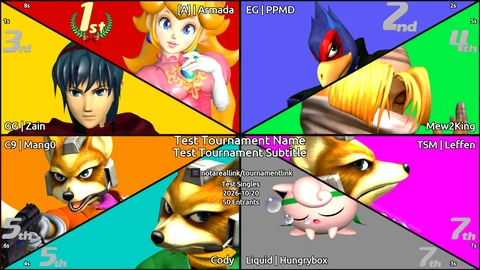
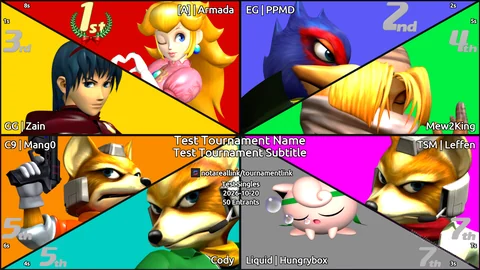
fixing radial podium template watermark

diff --git a/frontend/src/radialWatermark.ts b/frontend/src/radialWatermark.ts
@@ -1,12 +1,31 @@
-// Matches radial_watermark.py: choose contrast from the fully composed image.
-const singlesBox = { left: 1450, top: 787, right: 1686, bottom: 933 };
-const doublesBox = { left: 1562, top: 1034, right: 1902, bottom: 1062 };
+// Matches radial_watermark.py: contrast with the divider pixels under the text.
+const ray = { x0: 960, y0: 540, x1: 1920, y1: 1080 };
+const textLength = 270;
+// Singles and Doubles share one position near the corner.
+const end = 1050;
 
-export function drawRadialWatermark(context: CanvasRenderingContext2D, mask: HTMLImageElement, doubles: boolean) {
-  const box = doubles ? doublesBox : singlesBox;
-  const pixels = context.getImageData(box.left, box.top, box.right - box.left, box.bottom - box.top).data;
+function dividerSamples(): [number, number][] {
+  const length = Math.hypot(ray.x1 - ray.x0, ray.y1 - ray.y0);
+  const rayX = (distance: number) => ray.x0 + (ray.x1 - ray.x0) * distance / length;
+  const samples: [number, number][] = [];
+  for (let x = Math.floor(rayX(end - textLength)); x <= Math.floor(rayX(end)); x += 1) {
+    const y = Math.floor(ray.y0 + (x - ray.x0) * (ray.y1 - ray.y0) / (ray.x1 - ray.x0) + .5);
+    for (const offset of [-1, 0, 1]) samples.push([x, y + offset]);
+  }
+  return samples;
+}
+
+export function drawRadialWatermark(context: CanvasRenderingContext2D, mask: HTMLImageElement) {
+  const samples = dividerSamples();
+  const left = samples[0][0];
+  const top = samples[0][1];
+  const right = samples[samples.length - 1][0];
+  const bottom = samples[samples.length - 1][1];
+  const pixels = context.getImageData(left, top, right - left + 1, bottom - top + 1).data;
+  const width = right - left + 1;
   let luminance = 0;
-  for (let index = 0; index < pixels.length; index += 4) {
+  for (const [x, y] of samples) {
+    const index = ((y - top) * width + (x - left)) * 4;
     luminance += (.2126 * pixels[index] + .7152 * pixels[index + 1] + .0722 * pixels[index + 2]) / 255 * pixels[index + 3] / 255;
   }
   const layer = document.createElement("canvas");
@@ -17,7 +36,7 @@ export function drawRadialWatermark(context: CanvasRenderingContext2D, mask: HTM
   tint.drawImage(mask, 0, 0);
   tint.globalCompositeOperation = "source-in";
   // The mask already owns the 25% alpha; tint with an opaque color once.
-  tint.fillStyle = luminance / (pixels.length / 4) >= .55 ? "#000000FF" : "#FFFFFFFF";
+  tint.fillStyle = luminance / samples.length >= .55 ? "#000000FF" : "#FFFFFFFF";
   tint.fillRect(0, 0, layer.width, layer.height);
   context.drawImage(layer, 0, 0);
 }

diff --git a/frontend/src/LayeredFormatPreview.tsx b/frontend/src/LayeredFormatPreview.tsx
@@ -419,7 +419,7 @@ export default function LayeredFormatPreview({ format, backgroundImage, logoImag
         context.drawImage(tintedHeader(headerLayer, request.outputSize.width, headerHeight, format.text_settings.heading_color, format.text_settings.heading_metallic), 0, 0);
         if (resultLabels) context.drawImage(resultLabels, 0, 0, request.outputSize.width, request.outputSize.height);
         if (format.selection.mode !== "radial") drawLogo(context, format, logo, logoImage, request.outputSize, request.logoPosition, request.logoBox);
-        if (watermark) drawRadialWatermark(context, watermark, format.selection.options.event_format === "doubles");
+        if (watermark) drawRadialWatermark(context, watermark);
         if (isPodiumsClapping(format.selection)) drawPodiumPreviewFooter(context, header, request.outputSize);
         setLoading(false);
       } catch {

diff --git a/radial_watermark.py b/radial_watermark.py
@@ -1,54 +1,78 @@
-"""A compact attribution along the lower-right Radial divider."""
+"""A compact attribution centered on the lower-right Radial divider."""
 
 import math
 
 from PIL import Image, ImageChops, ImageColor, ImageDraw
 
-from background_builder import PixelRect
 from DrawPodium import ATTRIBUTION_TEXT, PodiumFont, _draw_text
-from geometric_content_renderer import _composite_watermark, _watermark_color
+from geometric_content_renderer import WATERMARK_BLACK, WATERMARK_WHITE
 
 
-# Singles reads along the shared ray between the two seventh-place entrants,
-# resting just above the divider that runs from the canvas center to the
-# bottom-right corner. The box bounds the rotated text and is also its contrast
-# sample. Doubles has a separate corner position below the member identity and
-# right of the team name.
+# Both layouts write along the divider from the canvas center to the
+# bottom-right corner: between the tied sevenths in Singles and between the
+# third- and fourth-place teams in Doubles. Both share one position near the
+# corner, so Singles text may pass beneath the lower seventh-place art.
+RADIAL_WATERMARK_RAY = ((960, 540), (1920, 1080))
 RADIAL_WATERMARK_ANGLE = math.degrees(math.atan2(540, 960))
-RADIAL_WATERMARK_ORIGIN = (1564, 870)
-RADIAL_WATERMARK_BOX = PixelRect(1450, 787, 1686, 933)
-RADIAL_DOUBLES_WATERMARK_BOX = PixelRect(1562, 1034, 1902, 1062)
+RADIAL_WATERMARK_END = 1050
+RADIAL_WATERMARK_LENGTH = 270
+# Lift the text perpendicular to the ray, toward the upper-right section, so
+# less of it crosses into the lower section while still straddling the line.
+RADIAL_WATERMARK_LIFT = 2
 
 
-def _singles_watermark_mask(size: tuple[int, int]) -> Image.Image:
+def _ray_point(distance: float) -> tuple[float, float]:
+    (x0, y0), (x1, y1) = RADIAL_WATERMARK_RAY
+    length = math.hypot(x1 - x0, y1 - y0)
+    return x0 + (x1 - x0) * distance / length, y0 + (y1 - y0) * distance / length
+
+
+def radial_watermark_line_samples() -> list[tuple[int, int]]:
+    """Divider pixels under the text; the frontend mirrors this sampling."""
+    end = RADIAL_WATERMARK_END
+    left = math.floor(_ray_point(end - RADIAL_WATERMARK_LENGTH)[0])
+    right = math.floor(_ray_point(end)[0])
+    (x0, y0), (x1, y1) = RADIAL_WATERMARK_RAY
+    return [
+        (x, math.floor(y0 + (x - x0) * (y1 - y0) / (x1 - x0) + .5) + offset)
+        for x in range(left, right + 1)
+        for offset in (-1, 0, 1)
+    ]
+
+
+def radial_watermark_color(canvas: Image.Image) -> str:
+    """Contrast with the divider color the text is written over."""
+    rgba = canvas.convert("RGBA")
+    samples = radial_watermark_line_samples()
+    luminance = 0.0
+    for x, y in samples:
+        red, green, blue, alpha = rgba.getpixel((x, y))
+        luminance += (0.2126 * red + 0.7152 * green + 0.0722 * blue) / 255 * alpha / 255
+    return WATERMARK_BLACK if luminance / len(samples) >= 0.55 else WATERMARK_WHITE
+
+
+def radial_watermark_mask(size: tuple[int, int]) -> Image.Image:
+    end = _ray_point(RADIAL_WATERMARK_END)
+    angle = math.radians(RADIAL_WATERMARK_ANGLE)
+    origin = (round(end[0] + RADIAL_WATERMARK_LIFT * math.sin(angle)), round(end[1] - RADIAL_WATERMARK_LIFT * math.cos(angle)))
     layer = Image.new("RGBA", size, "#00000000")
     _draw_text(
         ImageDraw.Draw(layer),
-        RADIAL_WATERMARK_ORIGIN,
+        origin,
         ATTRIBUTION_TEXT,
-        anchor="md",
-        max_width=340,
+        anchor="rm",
+        max_width=RADIAL_WATERMARK_LENGTH,
         preferred_size=20,
         font=PodiumFont.UBUNTU,
         fill="#FFFFFFFF",
     )
     # Pillow rotates counter-clockwise; descend with the ray instead.
-    return layer.getchannel("A").rotate(-RADIAL_WATERMARK_ANGLE, Image.Resampling.BICUBIC, center=RADIAL_WATERMARK_ORIGIN)
+    return layer.getchannel("A").rotate(-RADIAL_WATERMARK_ANGLE, Image.Resampling.BICUBIC, center=origin)
 
 
 def draw_radial_watermark(canvas: Image.Image, *, doubles: bool = False, fill: str | None = None) -> None:
-    if doubles:
-        box = RADIAL_DOUBLES_WATERMARK_BOX
-        _composite_watermark(
-            canvas,
-            position=(box.right, box.bottom - 6),
-            anchor="rs",
-            max_width=box.width,
-            font=PodiumFont.UBUNTU,
-            fill=fill or _watermark_color(canvas, box),
-        )
-        return
-    red, green, blue, alpha = ImageColor.getcolor(fill or _watermark_color(canvas, RADIAL_WATERMARK_BOX), "RGBA")
+    # Singles and Doubles share the same divider position.
+    red, green, blue, alpha = ImageColor.getcolor(fill or radial_watermark_color(canvas), "RGBA")
     layer = Image.new("RGBA", canvas.size, (red, green, blue, 0))
-    layer.putalpha(ImageChops.multiply(_singles_watermark_mask(canvas.size), Image.new("L", canvas.size, alpha)))
+    layer.putalpha(ImageChops.multiply(radial_watermark_mask(canvas.size), Image.new("L", canvas.size, alpha)))
     canvas.alpha_composite(layer)

diff --git a/test/radial_test.py b/test/radial_test.py
@@ -9,7 +9,7 @@ import random
 import unittest
 from unittest.mock import patch
 
-from PIL import Image, ImageDraw
+from PIL import Image, ImageChops, ImageDraw
 
 from app import app
 from background_builder import BackgroundRequest, PixelRect
@@ -23,7 +23,7 @@ from models import TournamentFormat
 from radial_content_renderer import RadialContentRenderer
 from radial_geometry import clip_to_section, radial_sections
 from radial_palette import radial_palette_color
-from radial_watermark import RADIAL_WATERMARK_BOX, draw_radial_watermark
+from radial_watermark import draw_radial_watermark, radial_watermark_line_samples, radial_watermark_mask
 from generate_radial_preferences import radial_preferences
 from podium_colors import PodiumColorSelection
 from sample_creation_data import sample_top_8_entrants, sample_tournament
@@ -95,30 +95,37 @@ class RadialTests(unittest.TestCase):
                 else:
                     self.assertGreater(label.anchor.x, 960)
 
-    def test_bottom_right_watermark_clears_badges_and_seeds(self):
-        layer = Image.new("RGBA", (1920, 1080))
-        draw_radial_watermark(layer)
-        bounds = layer.getbbox()
-        left, top, right, bottom = bounds
-        box = RADIAL_WATERMARK_BOX
-        self.assertTrue(box.left <= left < right <= box.right and box.top <= top < bottom <= box.bottom)
-        draw = ImageDraw.Draw(layer)
-        obstacles = [(p.anchor.x - p.max_size.width / 2, p.anchor.y - p.max_size.height / 2, p.anchor.x + p.max_size.width / 2, p.anchor.y + p.max_size.height / 2) for p in self.preferences.placement_tags]
+    def test_watermark_shares_the_doubles_divider_position_and_clears_seeds(self):
+        from PIL import ImageFilter
+        mask = radial_watermark_mask((1920, 1080)).point(lambda value: 255 if value > 16 else 0)
+        # The divider passes through the text along its full length.
+        for x, y in radial_watermark_line_samples()[1::3][10:-10:10]:
+            self.assertIsNotNone(mask.crop((x - 12, y - 12, x + 13, y + 13)).getbbox())
+        left, top, right, bottom = mask.getbbox()
+        self.assertGreater(right, 1850)
+        singles, doubles = Image.new("RGBA", (1920, 1080)), Image.new("RGBA", (1920, 1080))
+        draw_radial_watermark(singles, fill="#FFFFFF40")
+        draw_radial_watermark(doubles, doubles=True, fill="#FFFFFF40")
+        self.assertEqual(singles.tobytes(), doubles.tobytes())
+        self.assertLess(abs((top + bottom) / 2 - (540 + ((left + right) / 2 - 960) * 0.5625)), 4)
+        clearance = mask.filter(ImageFilter.MaxFilter(5))
+        draw = ImageDraw.Draw(Image.new("RGBA", (1920, 1080)))
         for seed in (p for p in self.preferences.text_slots if p.field == "entrant.seed"):
             value = f"{self.entrants[seed.entrant_slot - 1].seed}s"
             font = _font_to_fit(value, seed.max_width, seed.preferred_size, PodiumFont.TYROWO)
-            obstacles.append(draw.textbbox((seed.anchor.x, seed.anchor.y), value, font=font, anchor=seed.pillow_anchor, stroke_width=2))
-        for obstacle in obstacles:
-            self.assertTrue(right < obstacle[0] or left > obstacle[2] or bottom < obstacle[1] or top > obstacle[3])
+            self.assertIsNone(clearance.crop(draw.textbbox((seed.anchor.x, seed.anchor.y), value, font=font, anchor=seed.pillow_anchor, stroke_width=2)).getbbox())
 
-    def test_watermark_chooses_local_contrast_and_blends_once(self):
-        for background, expected in (("#FFFFFFFF", 191), ("#000000FF", 64)):
+    def test_watermark_contrasts_with_the_divider_color_and_blends_once(self):
+        for background, divider, expected in (("#000000FF", "#FFFFFFFF", (0, 0, 0, 64)), ("#FFFFFFFF", "#202020FF", (255, 255, 255, 64))):
             image = Image.new("RGBA", (1920, 1080), background)
+            draw = ImageDraw.Draw(image)
+            draw.line((960, 540, 1920, 1080), fill=divider, width=9)
+            reference = image.copy()
             draw_radial_watermark(image)
-            pixels = list(image.crop(RADIAL_WATERMARK_BOX.as_tuple()).getdata())
-            values = [pixel[0] for pixel in pixels]
-            self.assertEqual(min(values) if background == "#FFFFFFFF" else max(values), expected)
-            self.assertTrue(all(pixel[3] == 255 for pixel in pixels))
+            fill = Image.new("RGBA", image.size, expected[:3] + (0,))
+            fill.putalpha(ImageChops.multiply(radial_watermark_mask(image.size), Image.new("L", image.size, expected[3])))
+            reference.alpha_composite(fill)
+            self.assertEqual(image.tobytes(), reference.tobytes())
 
     def test_browser_watermark_masks_match_exact_render_geometry(self):
         root = Path(__file__).resolve().parents[1] / "frontend/public/format_preview_layers"

diff --git a/test/radial_doubles_test.py b/test/radial_doubles_test.py
@@ -24,7 +24,7 @@ from sample_creation_data import sample_top_4_teams, sample_tournament
 from generate_radial_preferences import radial_reference_preferences
 from generate_radial_doubles_preferences import radial_doubles_preferences
 from DrawPodium import PodiumFont, _font_to_fit
-from radial_watermark import RADIAL_DOUBLES_WATERMARK_BOX, draw_radial_watermark
+from radial_watermark import draw_radial_watermark, radial_watermark_line_samples
 
 
 class RadialDoublesTests(unittest.TestCase):
@@ -75,16 +75,18 @@ class RadialDoublesTests(unittest.TestCase):
             distance = lambda point: (point.x - corner[0]) ** 2 + (point.y - corner[1]) ** 2
             self.assertLess(distance(seed.anchor), distance(number.anchor))
 
-    def test_watermark_clears_fourth_place_team_and_both_member_names(self):
+    def test_watermark_follows_the_third_and_fourth_team_divider_and_clears_their_names(self):
         layer = Image.new("RGBA", (1920, 1080))
-        draw_radial_watermark(layer, doubles=True)
-        bounds = layer.getbbox()
-        left, top, right, bottom = bounds
-        box = RADIAL_DOUBLES_WATERMARK_BOX
-        self.assertTrue(box.left <= left < right <= box.right and box.top <= top < bottom <= box.bottom)
-        team = self.teams[3]
-        draw = ImageDraw.Draw(layer)
-        for slot in (p for p in self.preferences.text_slots if p.entrant_slot == 4):
+        draw_radial_watermark(layer, doubles=True, fill="#FFFFFF40")
+        left, top, right, bottom = layer.getbbox()
+        self.assertGreater(right, 1850)
+        self.assertLess(bottom, 1080)
+        self.assertLess(abs((top + bottom) / 2 - (540 + ((left + right) / 2 - 960) * 0.5625)), 4)
+        samples = radial_watermark_line_samples()
+        self.assertTrue(left - 3 <= samples[0][0] and samples[-1][0] <= right + 3)
+        draw = ImageDraw.Draw(Image.new("RGBA", (1920, 1080)))
+        for slot in (p for p in self.preferences.text_slots if p.entrant_slot in (3, 4)):
+            team = self.teams[slot.entrant_slot - 1]
             if slot.field == "entrant.team_name":
                 value = team.team_name
             elif slot.field == "entrant.seed":

diff --git a/AGENTS.md b/AGENTS.md
@@ -15,7 +15,7 @@
 - Radial placement artwork is enlarged and separated from player names at the outer section corners. First place uses a separately enlarged crest in both Singles and Doubles, with adjacent names kept clear of its larger bounds. Radial palettes expose independent Background Color / Primary (`main_color`) and Border Color / Box (`base_color`) controls; presets apply primary colors to triangle backgrounds and box colors to triangle borders. Apply border colors inside each triangle, including both sides of shared rays, with their selected alpha; previews and downloads use the same palette mapping.
 - Radial Doubles Top 4 merges Singles wedges (1, 2), (3, 5), (4, 6), and (7, 8) into first, second, third, and fourth team blocks. Keep the eight Singles portrait anchors and member crop masks, remove borders within each merged team block, and share one formatting palette per team. Center first-place team names across the top and fourth-place names across the bottom; second and third team names occupy the middle-left and middle-right. Keep both member identities visible.
 - Radial Singles numbers occupy the outer acute corners, and player names sit near each triangle's right-angle corner with matching left/right text anchors. Keep Radial Doubles name, seed, and number calibrations independent so Singles refinements do not move Doubles content. Doubles member names mirror across the horizontal center for each team block; first-place identities use the fourth-place horizontal positions. Both layouts place seeds deeper into the same outer corner as their placement artwork, separately from player names.
-- Radial Singles groups entrants as 1st/2nd at center top, 3rd/4th at upper left/right, 5th/7th at lower left/right, and 5th/7th at center bottom. Both fifths occupy the lower left and both sevenths occupy the lower right; move portrait masks, names, seeds, placement artwork, and palettes together. Doubles retains its original wedge grouping independently. Radial Singles attribution runs diagonally along the center-to-bottom-right divider between the two sevenths, resting just above that ray; Doubles keeps a separate bottom-right corner position. Both clear labels, seeds, and badges; fast previews and exact renders use the same geometry and locally contrasting 25%-alpha white/black text.
+- Radial Singles groups entrants as 1st/2nd at center top, 3rd/4th at upper left/right, 5th/7th at lower left/right, and 5th/7th at center bottom. Both fifths occupy the lower left and both sevenths occupy the lower right; move portrait masks, names, seeds, placement artwork, and palettes together. Doubles retains its original wedge grouping independently. Radial attribution is written directly on the center-to-bottom-right divider, centered across the line and running toward the corner: between the two sevenths in Singles and between the third- and fourth-place teams in Doubles, at the same position in both layouts even where Singles text passes the lower seventh's badge. Choose 25%-alpha white or black text from the composited divider pixels beneath it, not the surrounding portraits; fast previews and exact renders use the same geometry and line sampling.
 - Radial uses one generated image-type thumbnail and the same Singles/Doubles controls as the other modes. Selecting Singles fixes its count at eight; selecting Doubles fixes its count at four. Do not add separate per-layout previews or another entrant-count choice for Radial. Reject saved/imported Radial counts or variants outside these two layouts while preserving valid settings and private asset IDs on load.
 - Select the mode before other creation settings. Keep the mode and its settings, including singles/doubles, included entrant count, and any layout variant, together in one mode-selection value.
 - Podium mode has a required second-level choice between `legacy` podiums and `customizable` podiums. Do not treat this as a cosmetic skin: each style owns separate formatting-asset positions and character/text placements because its podium geometry and heights differ.
